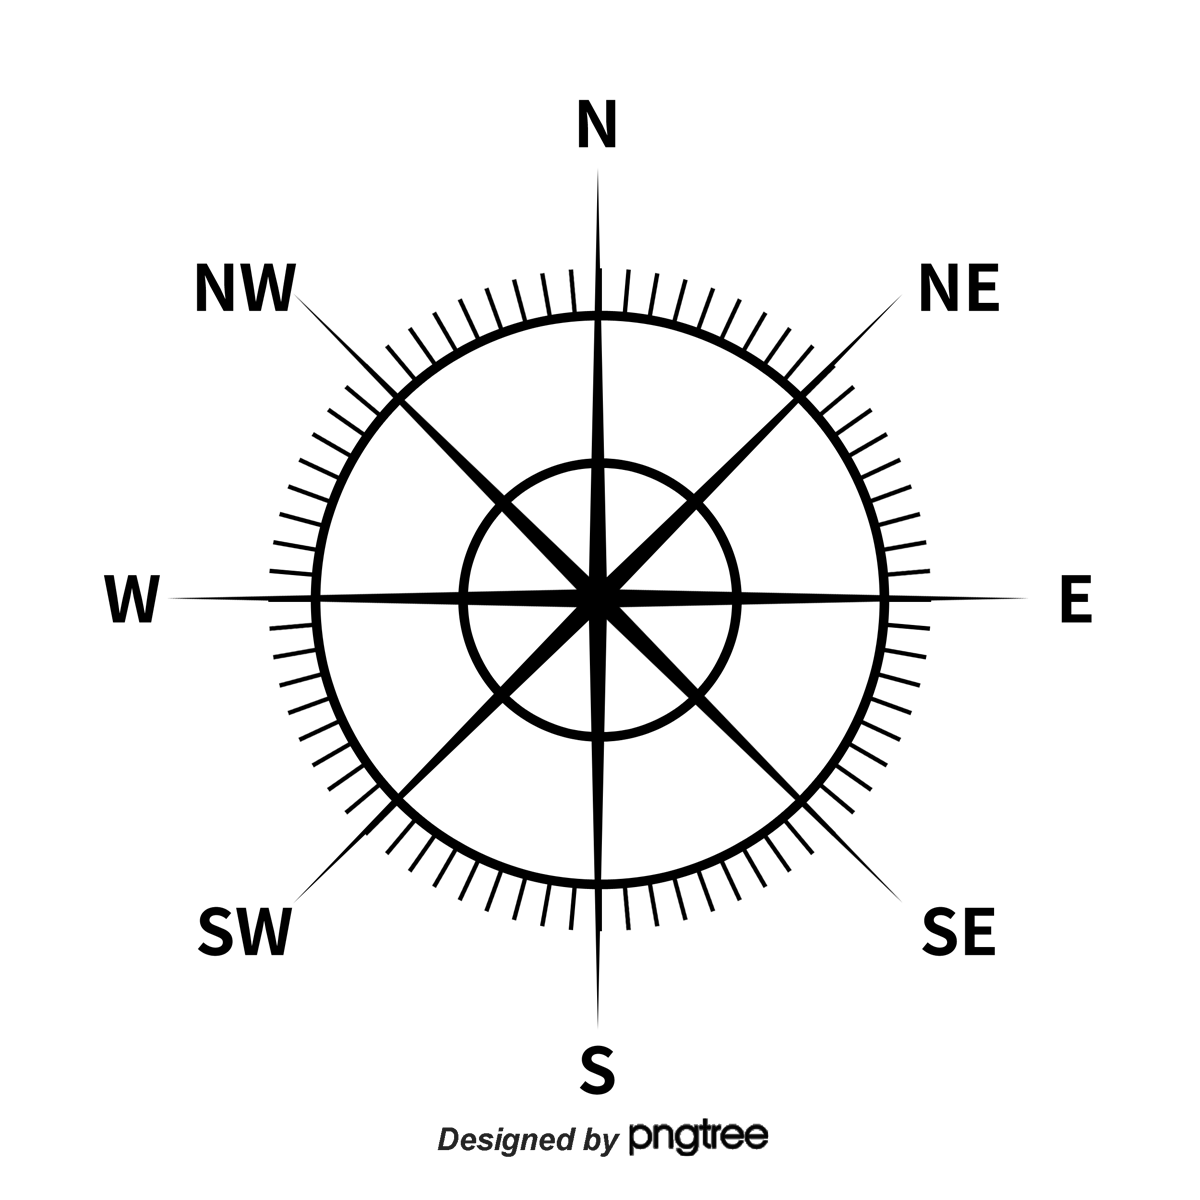
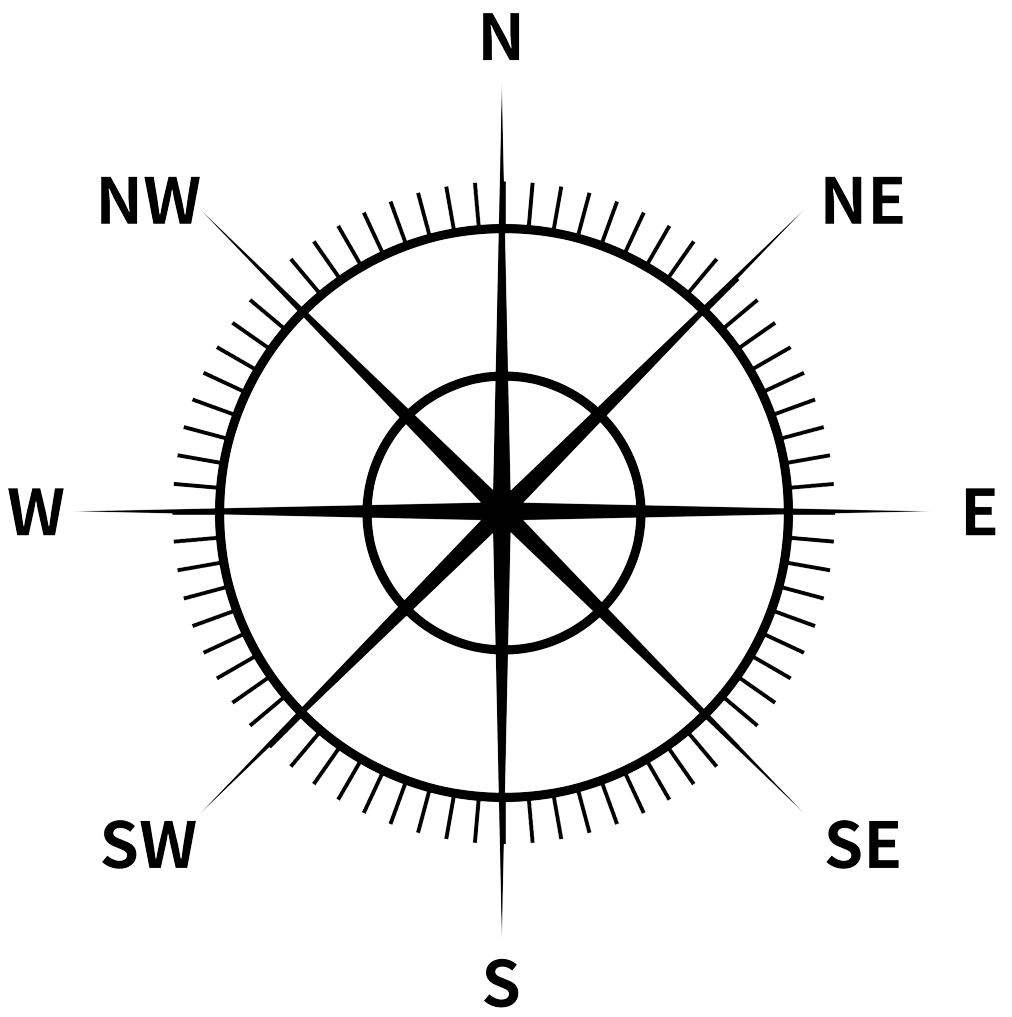
modified:   pictures/compass_1.png 	modified:   src/ngc_hmi/ngc_hmi/ngc_hmi_engineering_opencpn.py

diff --git a/src/ngc_hmi/ngc_hmi/ngc_hmi_engineering_opencpn.py b/src/ngc_hmi/ngc_hmi/ngc_hmi_engineering_opencpn.py
@@ -22,7 +22,7 @@ class CompassDial(QDial):
         super().__init__(parent)
         
         # Load the static background image with the notches
-        self.background_image_original = QPixmap('pictures/CompassDial.png')
+        self.background_image_original = QPixmap('pictures/compass_1.png')
         
         # Load the rotating compass image (e.g., the boat)
         self.compass_image_original = QPixmap('pictures/Otter_Compass.png')  
